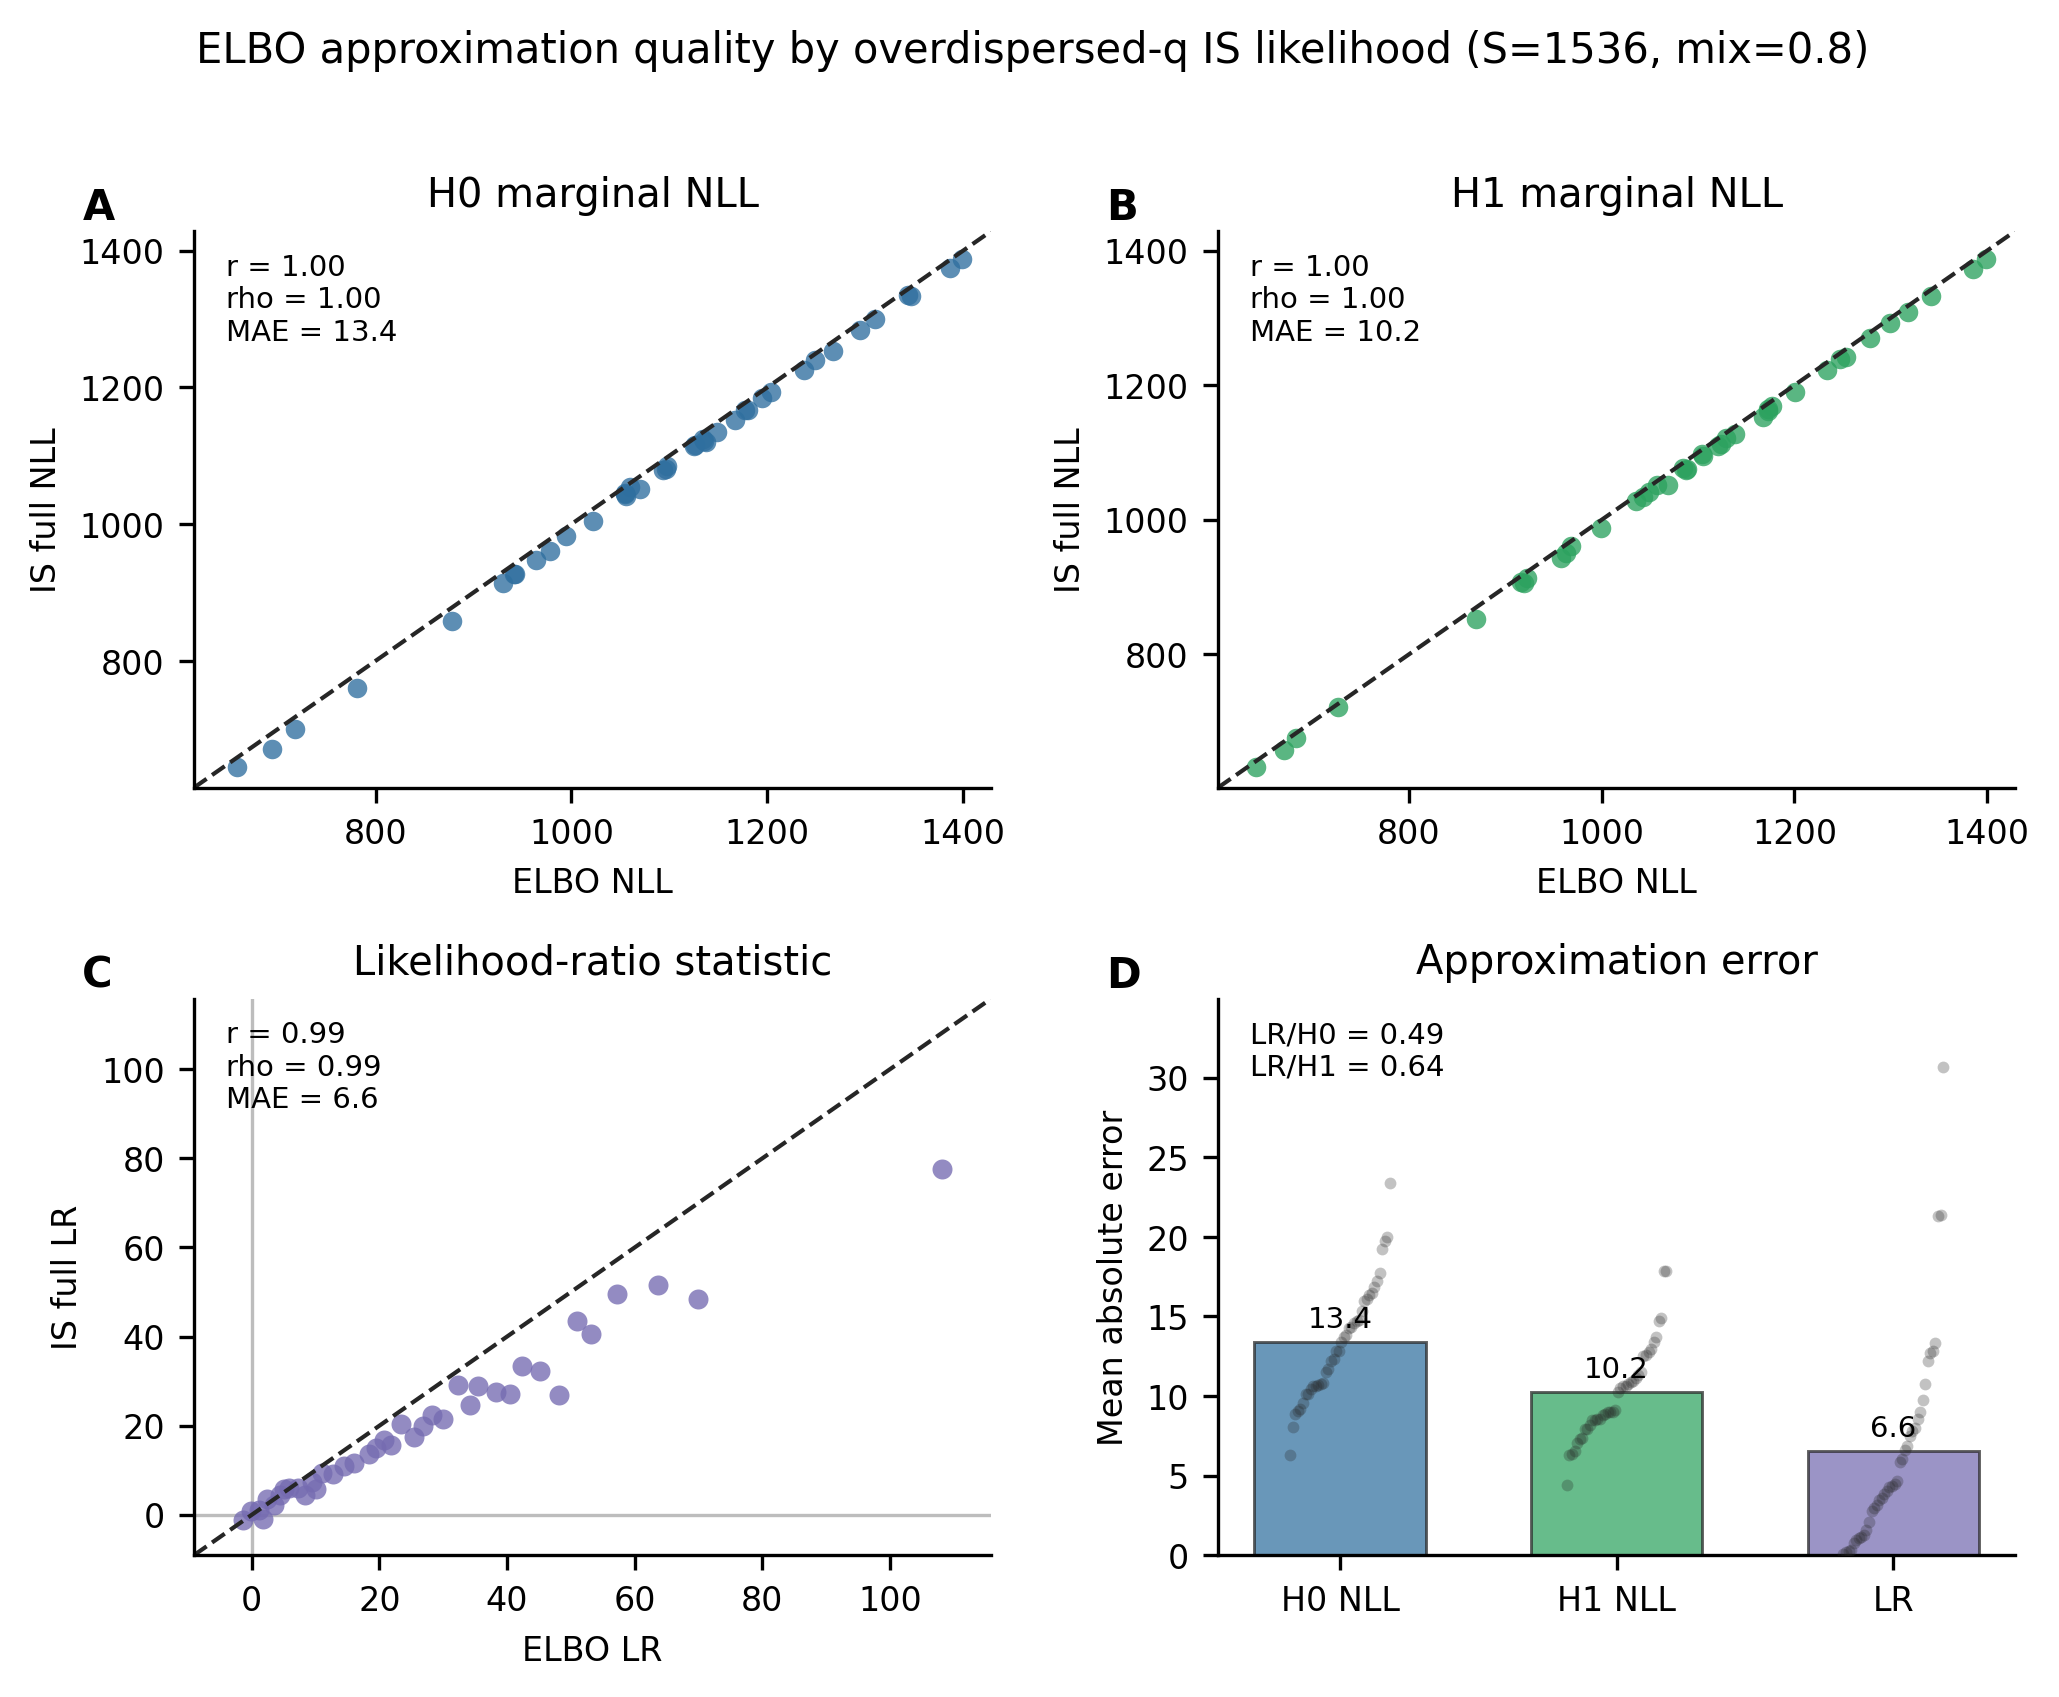
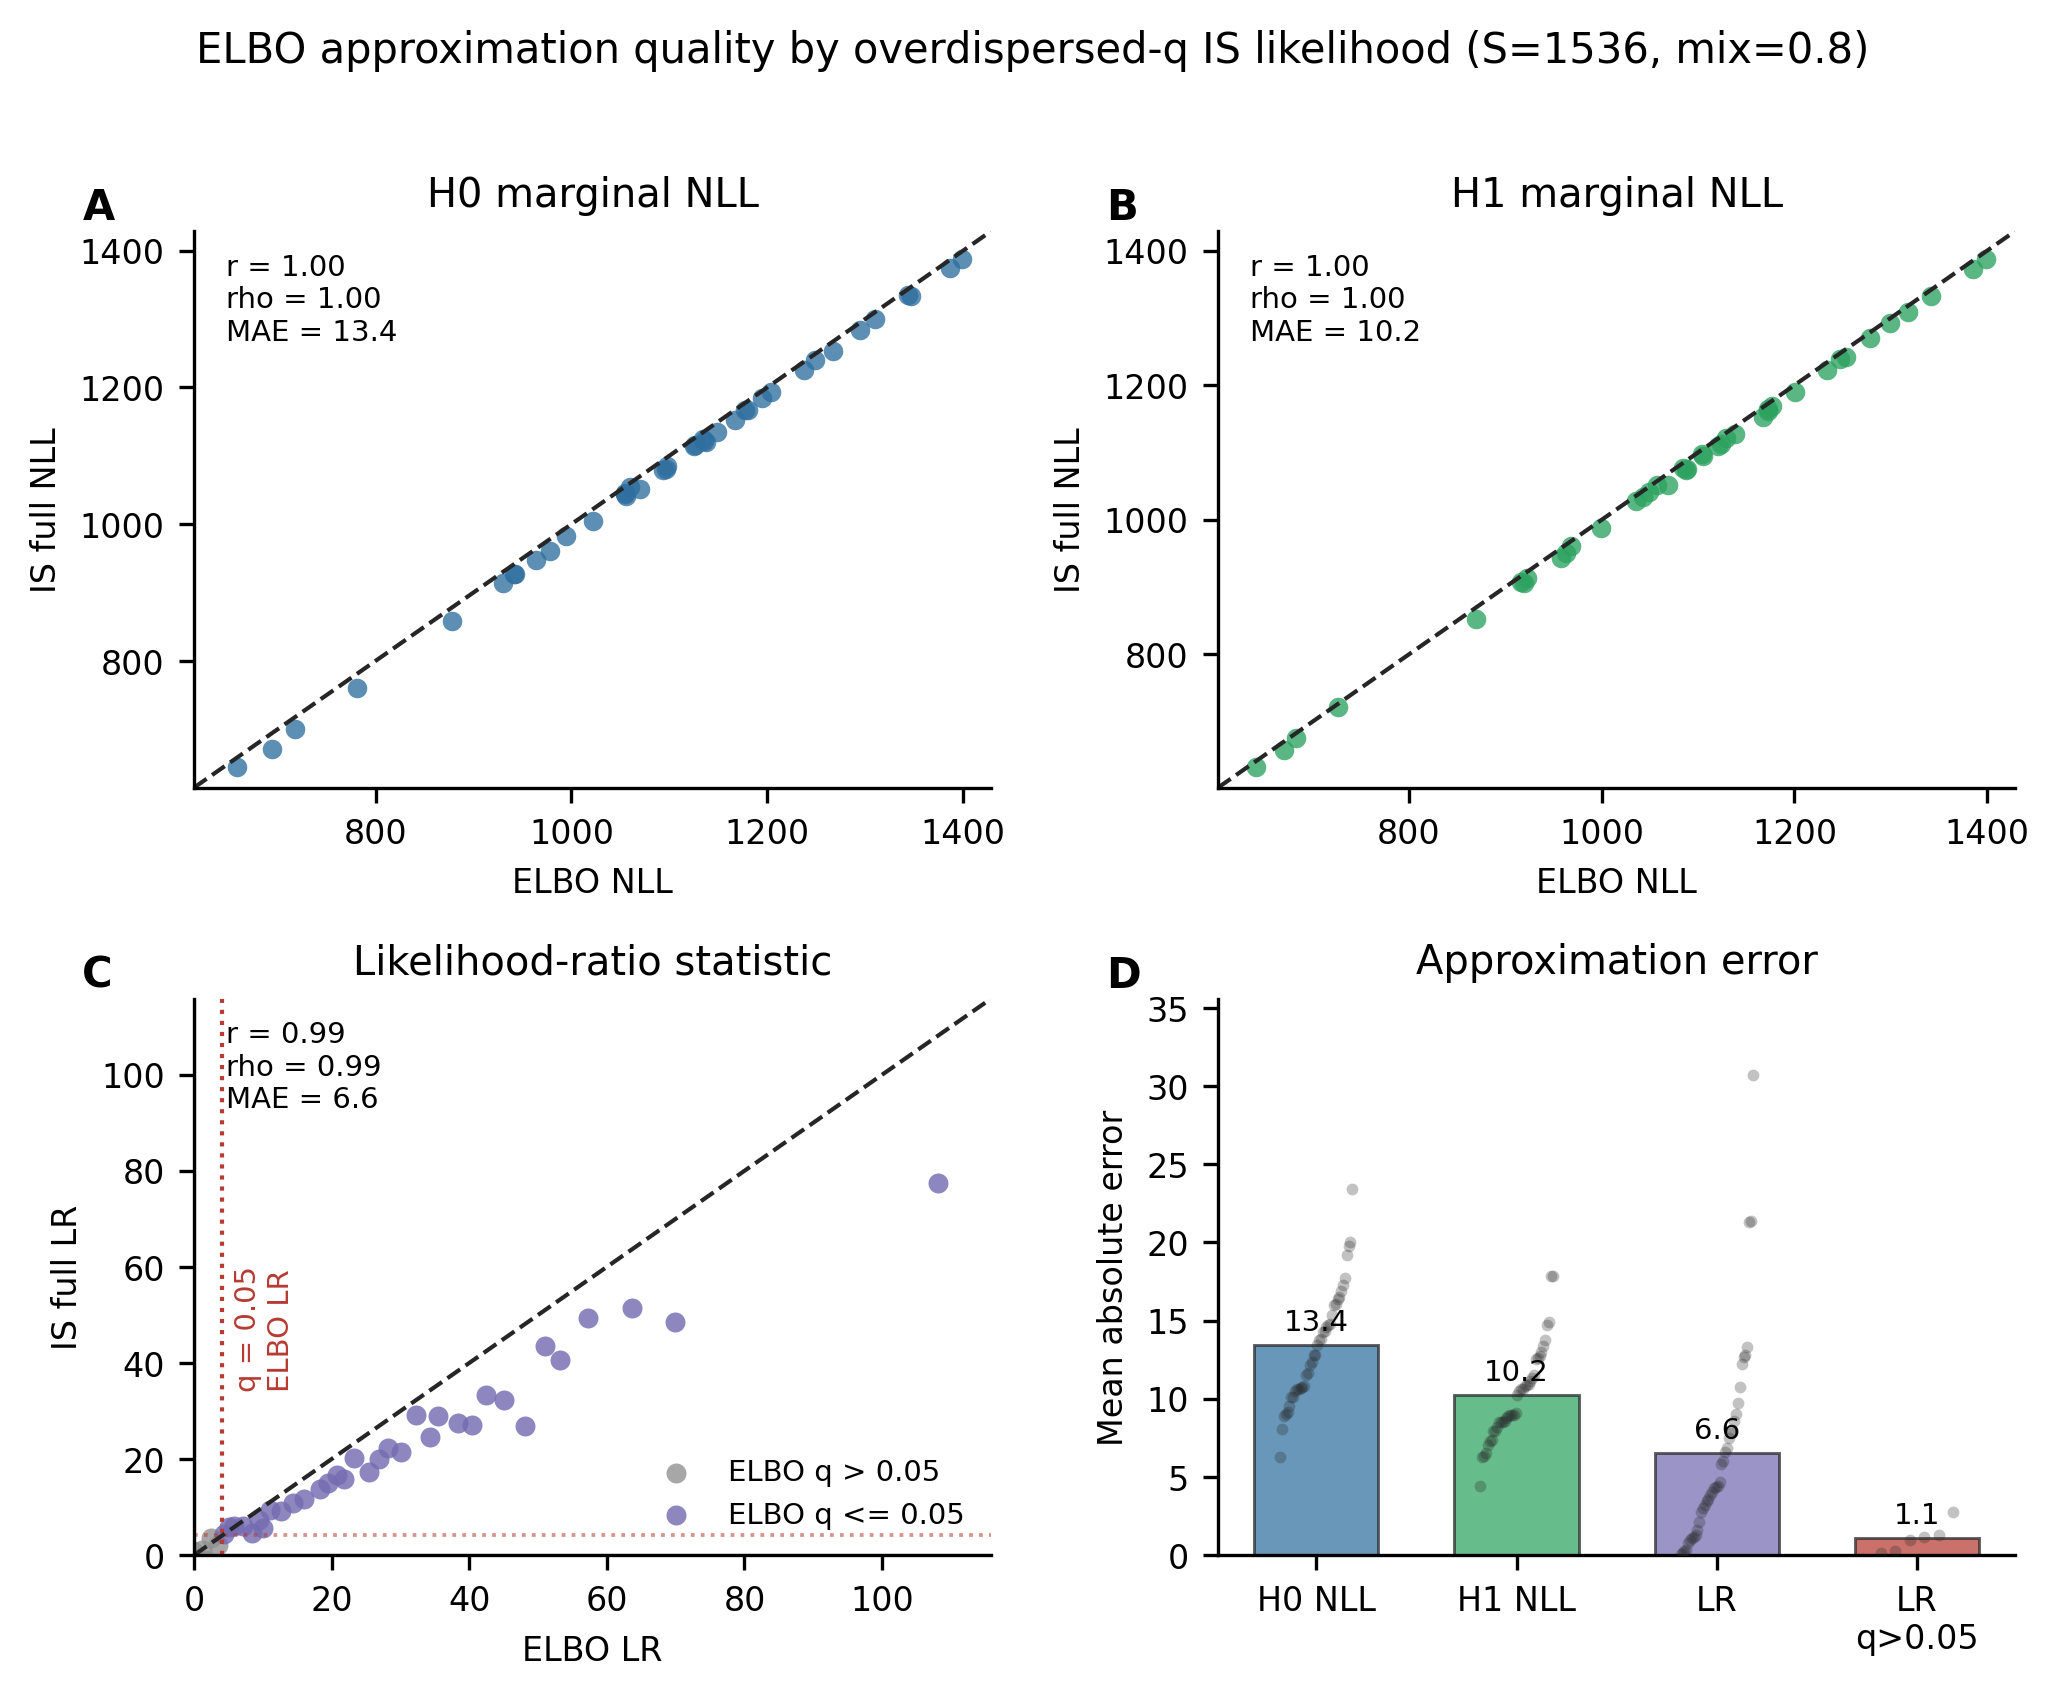
update supplementary figure layouts

diff --git a/supplementary_figures/elbo_importance_sampling_quality/plot_elbo_importance_sampling_quality.py b/supplementary_figures/elbo_importance_sampling_quality/plot_elbo_importance_sampling_quality.py
@@ -42,6 +42,7 @@ DEFAULT_PROPOSAL = "overdispersed"
 DEFAULT_MIX = 0.8
 DEFAULT_Q_SCALE = 2.0
 DEFAULT_SEED = 20240625
+Q_REFERENCE = 0.05
 
 
 def add_panel_label(ax, label):
@@ -547,6 +548,38 @@ def identity_limits(x, y, pad_fraction=0.04):
     return lo - pad, hi + pad
 
 
+def lr_threshold_for_q(df, q_reference=Q_REFERENCE):
+    label = str(df["label"].iloc[0])
+    diff_path = DIFF_DIR / f"diff_{label}_chi-squared.tsv"
+    if diff_path.exists():
+        diff = pd.read_csv(diff_path, sep="\t")
+        finite = diff[np.isfinite(diff["lrt"].to_numpy(dtype=float))]
+        significant = finite[finite["q"] <= q_reference]
+        if not significant.empty:
+            return float(significant["lrt"].min())
+
+    selected_significant = df[df["q_chisq"] <= q_reference]
+    if not selected_significant.empty:
+        return float(selected_significant["elbo_lr"].min())
+    return None
+
+
+def label_lr_threshold(ax, threshold, x_span, y_top):
+    if threshold is None:
+        return
+    ax.axvline(threshold, color="#b63b32", lw=1.0, ls=":", zorder=1)
+    ax.text(
+        threshold + 0.015 * x_span,
+        y_top,
+        "q = 0.05\nELBO LR",
+        rotation=90,
+        color="#b63b32",
+        ha="left",
+        va="top",
+        fontsize=7,
+    )
+
+
 def plot_figure(df, summary):
     plt.rcParams.update(
         {
@@ -560,6 +593,8 @@ def plot_figure(df, summary):
 
     fig, axes = plt.subplots(2, 2, figsize=(6.9, 5.45))
     axes = axes.ravel()
+    lr_q_threshold = lr_threshold_for_q(df)
+    signif_mask = df["q_chisq"] <= Q_REFERENCE
 
     panel_specs = [
         (axes[0], "A", "elbo_h0_nll", "is_h0_nll", "H0 marginal NLL", "#2f6f9f"),
@@ -588,10 +623,30 @@ def plot_figure(df, summary):
         add_panel_label(ax, panel)
 
     ax = axes[2]
-    ax.scatter(df["elbo_lr"], df["is_lr"], s=23, color="#756bb1", alpha=0.78, linewidth=0)
-    lo, hi = identity_limits(df["elbo_lr"], df["is_lr"], pad_fraction=0.07)
-    lo = min(lo, -3.0)
+    ax.scatter(
+        df.loc[~signif_mask, "elbo_lr"],
+        df.loc[~signif_mask, "is_lr"],
+        s=23,
+        color="#8f8f8f",
+        alpha=0.78,
+        linewidth=0,
+        label="ELBO q > 0.05",
+    )
+    ax.scatter(
+        df.loc[signif_mask, "elbo_lr"],
+        df.loc[signif_mask, "is_lr"],
+        s=23,
+        color="#756bb1",
+        alpha=0.82,
+        linewidth=0,
+        label="ELBO q <= 0.05",
+    )
+    _lo, hi = identity_limits(df["elbo_lr"], df["is_lr"], pad_fraction=0.07)
+    lo = 0.0
     ax.plot([lo, hi], [lo, hi], color="#262626", lw=1, ls="--")
+    if lr_q_threshold is not None:
+        ax.axhline(lr_q_threshold, color="#b63b32", lw=0.9, ls=":", alpha=0.55, zorder=1)
+        label_lr_threshold(ax, lr_q_threshold, hi - lo, lo + 0.52 * (hi - lo))
     ax.axhline(0, color="#bdbdbd", lw=0.8, zorder=0)
     ax.axvline(0, color="#bdbdbd", lw=0.8, zorder=0)
     ax.text(
@@ -608,17 +663,21 @@ def plot_figure(df, summary):
     ax.set_title("Likelihood-ratio statistic")
     ax.set_xlabel("ELBO LR")
     ax.set_ylabel("IS full LR")
+    ax.legend(frameon=False, fontsize=7, loc="lower right")
     add_panel_label(ax, "C")
 
 
     ax = axes[3]
+    lr_error = np.abs(df["is_lr"] - df["elbo_lr"]).to_numpy(dtype=float)
+    sig_values = signif_mask.to_numpy()
     error_sets = [
         np.abs(df["is_h0_nll"] - df["elbo_h0_nll"]).to_numpy(dtype=float),
         np.abs(df["is_h1_nll"] - df["elbo_h1_nll"]).to_numpy(dtype=float),
-        np.abs(df["is_lr"] - df["elbo_lr"]).to_numpy(dtype=float),
+        lr_error,
+        lr_error[~sig_values],
     ]
-    error_labels = ["H0 NLL", "H1 NLL", "LR"]
-    error_colors = ["#2f6f9f", "#2ca25f", "#756bb1"]
+    error_labels = ["H0 NLL", "H1 NLL", "LR", "LR\nq>0.05"]
+    error_colors = ["#2f6f9f", "#2ca25f", "#756bb1", "#b63b32"]
     means = [float(np.mean(values)) for values in error_sets]
     x_pos = np.arange(len(error_sets))
     ax.bar(x_pos, means, color=error_colors, alpha=0.72, width=0.62, edgecolor="#262626", linewidth=0.7)
@@ -635,20 +694,9 @@ def plot_figure(df, summary):
         )
     for x_i, value in zip(x_pos, means):
         ax.text(x_i, value + 0.55, f"{value:.1f}", ha="center", va="bottom", fontsize=7)
-    lr_vs_h0 = means[2] / means[0]
-    lr_vs_h1 = means[2] / means[1]
-    ax.text(
-        0.04,
-        0.96,
-        f"LR/H0 = {lr_vs_h0:.2f}\nLR/H1 = {lr_vs_h1:.2f}",
-        transform=ax.transAxes,
-        va="top",
-        ha="left",
-        fontsize=7,
-    )
     ax.set_xticks(x_pos)
     ax.set_xticklabels(error_labels)
-    ax.set_ylim(0, max(max(np.max(v) for v in error_sets), max(means)) * 1.14)
+    ax.set_ylim(0, max(max(np.max(v) for v in error_sets), max(means)) * 1.16)
     ax.set_title("Approximation error")
     ax.set_ylabel("Mean absolute error")
     add_panel_label(ax, "D")
@@ -672,6 +720,9 @@ def write_caption(df, summary):
     mix = float(summary["mix"])
     proposal = str(summary["proposal"])
     q_scale = float(summary["q_scale"])
+    noncalled = df[df["q_chisq"] > Q_REFERENCE]
+    noncalled_lr_mae = float(np.mean(np.abs(noncalled["is_lr"] - noncalled["elbo_lr"])))
+    n_noncalled = len(noncalled)
     if proposal == "q":
         proposal_sentence = "Importance sampling used the fitted variational distribution q(z|x) as the proposal"
         figure_phrase = "q-proposal importance-sampling"
@@ -683,9 +734,9 @@ def write_caption(df, summary):
         figure_phrase = "defensive importance-sampling"
     caption = f"""# Caption Draft
 
-Supplementary Fig. X. ELBO approximation quality assessed by {figure_phrase} marginal likelihood estimates. Panels A and B compare the saved variational negative ELBOs with IS-estimated full marginal negative log likelihoods for H0 and H1, respectively, using a stratified subset of {n_genes} genes from the `{label}` simulation. Because the original differential-test run used `const=false`, the gene-wise negative-binomial observation constant was added back to the saved ELBO losses before these absolute NLL comparisons. Panel C compares the ELBO-based likelihood-ratio statistic, `2*(H0 - H1)`, with the corresponding IS-estimated full LR. Panel D compares mean absolute error for the H0 NLL, H1 NLL, and LR, showing that the ELBO approximation is closer to the IS estimate after the H0-H1 subtraction used in the LRT.
+Supplementary Fig. X. ELBO approximation quality assessed by {figure_phrase} marginal likelihood estimates. Panels A and B compare the saved variational negative ELBOs with IS-estimated full marginal negative log likelihoods for H0 and H1, respectively, using a stratified subset of {n_genes} genes from the `{label}` simulation. Because the original differential-test run used `const=false`, the gene-wise negative-binomial observation constant was added back to the saved ELBO losses before these absolute NLL comparisons. Panel C compares the ELBO-based likelihood-ratio statistic, `2*(H0 - H1)`, with the corresponding IS-estimated full LR. The red dotted line marks the ELBO LR cutoff corresponding to q = 0.05 in the full `{label}` chi-square-calibrated differential-test result. Panel D compares mean absolute error for H0 NLL, H1 NLL, all LR values, and the LR subset with q > 0.05.
 
-{proposal_sentence}, with {n_replicates} independent replicates of S = {n_samples} samples per gene and hypothesis ({total_samples} pooled samples total). The fitted variational distributions, OU parameters, and NB dispersions were read from `expression_simulation/diff/`; no model was re-optimized and no original result files were modified. Summary metrics for this subset: Pearson r = {summary['pearson_elbo_lr_vs_is_lr']:.3f} for ELBO LR versus IS full LR; mean absolute errors are H0 NLL = {summary['mae_h0_nll']:.3f}, H1 NLL = {summary['mae_h1_nll']:.3f}, and LR = {summary['mae_lr']:.3f}; median replicate-based LR Monte Carlo SE = {summary['median_lr_replicate_mc_se']:.3f}.
+{proposal_sentence}, with {n_replicates} independent replicates of S = {n_samples} samples per gene and hypothesis ({total_samples} pooled samples total). The fitted variational distributions, OU parameters, and NB dispersions were read from `expression_simulation/diff/`; no model was re-optimized and no original result files were modified. Summary metrics for this subset: Pearson r = {summary['pearson_elbo_lr_vs_is_lr']:.3f} for ELBO LR versus IS full LR; mean absolute errors are H0 NLL = {summary['mae_h0_nll']:.3f}, H1 NLL = {summary['mae_h1_nll']:.3f}, LR = {summary['mae_lr']:.3f}, and LR among q > 0.05 genes = {noncalled_lr_mae:.3f} (n = {n_noncalled}); median replicate-based LR Monte Carlo SE = {summary['median_lr_replicate_mc_se']:.3f}.
 """
     (THIS_DIR / "caption.md").write_text(caption)
 

diff --git a/supplementary_figures/ou_vi_parameter_recovery/plot_ou_vi_parameter_recovery.py b/supplementary_figures/ou_vi_parameter_recovery/plot_ou_vi_parameter_recovery.py
@@ -204,7 +204,6 @@ def plot_figure(ou_df, vi_df):
     ax.set_xlabel(r"True $\theta_1$")
     ax.set_ylabel(r"Inferred $\sigma^2/(2\alpha)$")
     ax.set_title("OU stationary variance")
-    ax.legend(frameon=False, fontsize=7, loc="upper left")
     add_panel_label(ax, "A")
 
     # B. Background optimum recovery.
@@ -217,7 +216,6 @@ def plot_figure(ou_df, vi_df):
     ax.set_xlabel(r"True $\theta_1$")
     ax.set_ylabel(r"Inferred $\theta_0$")
     ax.set_title("Background optimum")
-    ax.legend(frameon=False, fontsize=7, loc="upper left")
     add_panel_label(ax, "B")
 
     # C. Selected-regime optimum recovery.
@@ -256,6 +254,11 @@ def plot_figure(ou_df, vi_df):
     ax.text(0.04, 0.96, f"r = {corr:.2f}\nRMSE = {rmse:.2f}", transform=ax.transAxes, va="top", ha="left", fontsize=7)
     ax.set_xlim(min_v - pad, max_v + pad)
     ax.set_ylim(min_v - pad, max_v + pad)
+    ax.set_aspect("equal", adjustable="box")
+    shared_ticks = ax.get_yticks()
+    shared_ticks = shared_ticks[(shared_ticks >= min_v - pad) & (shared_ticks <= max_v + pad)]
+    ax.set_xticks(shared_ticks)
+    ax.set_yticks(shared_ticks)
     ax.set_xlabel(f"True latent leaf value ({GENE_FOR_VI})")
     ax.set_ylabel(r"VI $m_q$")
     ax.set_title("VI mean recovery")
@@ -284,9 +287,12 @@ def plot_figure(ou_df, vi_df):
     rmse_by = vi_df.groupby("scenario")["error"].apply(lambda e: np.sqrt(np.mean(np.square(e)))).reindex([s["label"] for s in SCENARIOS])
     colors = [s["color"] for s in SCENARIOS]
     ax.axhline(0.95, color="#b63b32", linestyle="--", linewidth=1.0, label="95%")
-    for xi, val, err, color in zip(x, coverage.to_numpy(), rmse_by.to_numpy(), colors):
+    for idx, (xi, val, err, color) in enumerate(zip(x, coverage.to_numpy(), rmse_by.to_numpy(), colors)):
         ax.scatter([xi], [val], s=44, color=color, edgecolor="#262626", linewidth=0.5, zorder=3)
-        ax.text(xi, val + 0.004, f"{val:.2f}\nRMSE {err:.2f}", ha="center", va="bottom", fontsize=6.5)
+        if idx == 0:
+            ax.text(xi + 0.12, val - 0.006, f"{val:.2f}\nRMSE {err:.2f}", ha="left", va="top", fontsize=6.5)
+        else:
+            ax.text(xi, val + 0.004, f"{val:.2f}\nRMSE {err:.2f}", ha="center", va="bottom", fontsize=6.5)
     ax.set_ylim(0.90, 1.005)
     ax.set_xticks(x)
     ax.set_xticklabels(tick_labels)

diff --git a/supplementary_figures/reconstruction_vs_simulated_expression/plot_reconstruction_vs_simulated_expression.py b/supplementary_figures/reconstruction_vs_simulated_expression/plot_reconstruction_vs_simulated_expression.py
@@ -104,6 +104,10 @@ def set_equal_limits(ax, x: pd.Series, y: pd.Series) -> None:
     ax.set_xlim(lo, hi)
     ax.set_ylim(lo, hi)
     ax.set_aspect("equal", adjustable="box")
+    shared_ticks = ax.get_yticks()
+    shared_ticks = shared_ticks[(shared_ticks >= lo) & (shared_ticks <= hi)]
+    ax.set_xticks(shared_ticks)
+    ax.set_yticks(shared_ticks)
     ax.plot([lo, hi], [lo, hi], color="#3b3b3b", lw=0.8, ls="--", zorder=1)
 
 

diff --git a/supplementary_figures/elbo_importance_sampling_quality/caption.md b/supplementary_figures/elbo_importance_sampling_quality/caption.md
@@ -1,5 +1,5 @@
 # Caption Draft
 
-Supplementary Fig. X. ELBO approximation quality assessed by overdispersed-q importance-sampling marginal likelihood estimates. Panels A and B compare the saved variational negative ELBOs with IS-estimated full marginal negative log likelihoods for H0 and H1, respectively, using a stratified subset of 40 genes from the `t5r5` simulation. Because the original differential-test run used `const=false`, the gene-wise negative-binomial observation constant was added back to the saved ELBO losses before these absolute NLL comparisons. Panel C compares the ELBO-based likelihood-ratio statistic, `2*(H0 - H1)`, with the corresponding IS-estimated full LR. Panel D compares mean absolute error for the H0 NLL, H1 NLL, and LR, showing that the ELBO approximation is closer to the IS estimate after the H0-H1 subtraction used in the LRT.
+Supplementary Fig. X. ELBO approximation quality assessed by overdispersed-q importance-sampling marginal likelihood estimates. Panels A and B compare the saved variational negative ELBOs with IS-estimated full marginal negative log likelihoods for H0 and H1, respectively, using a stratified subset of 40 genes from the `t5r5` simulation. Because the original differential-test run used `const=false`, the gene-wise negative-binomial observation constant was added back to the saved ELBO losses before these absolute NLL comparisons. Panel C compares the ELBO-based likelihood-ratio statistic, `2*(H0 - H1)`, with the corresponding IS-estimated full LR. The red dotted line marks the ELBO LR cutoff corresponding to q = 0.05 in the full `t5r5` chi-square-calibrated differential-test result. Panel D compares mean absolute error for H0 NLL, H1 NLL, all LR values, and the LR subset with q > 0.05.
 
-Importance sampling used an overdispersed-q proposal, `0.80 q(z|x) + 0.20 q_2(z|x)`, where q_2 has the same mean as q and 2 times the posterior standard deviation, with 3 independent replicates of S = 512 samples per gene and hypothesis (1536 pooled samples total). The fitted variational distributions, OU parameters, and NB dispersions were read from `expression_simulation/diff/`; no model was re-optimized and no original result files were modified. Summary metrics for this subset: Pearson r = 0.988 for ELBO LR versus IS full LR; mean absolute errors are H0 NLL = 13.419, H1 NLL = 10.226, and LR = 6.565; median replicate-based LR Monte Carlo SE = 3.013.
+Importance sampling used an overdispersed-q proposal, `0.80 q(z|x) + 0.20 q_2(z|x)`, where q_2 has the same mean as q and 2 times the posterior standard deviation, with 3 independent replicates of S = 512 samples per gene and hypothesis (1536 pooled samples total). The fitted variational distributions, OU parameters, and NB dispersions were read from `expression_simulation/diff/`; no model was re-optimized and no original result files were modified. Summary metrics for this subset: Pearson r = 0.988 for ELBO LR versus IS full LR; mean absolute errors are H0 NLL = 13.419, H1 NLL = 10.226, LR = 6.565, and LR among q > 0.05 genes = 1.103 (n = 6); median replicate-based LR Monte Carlo SE = 3.013.